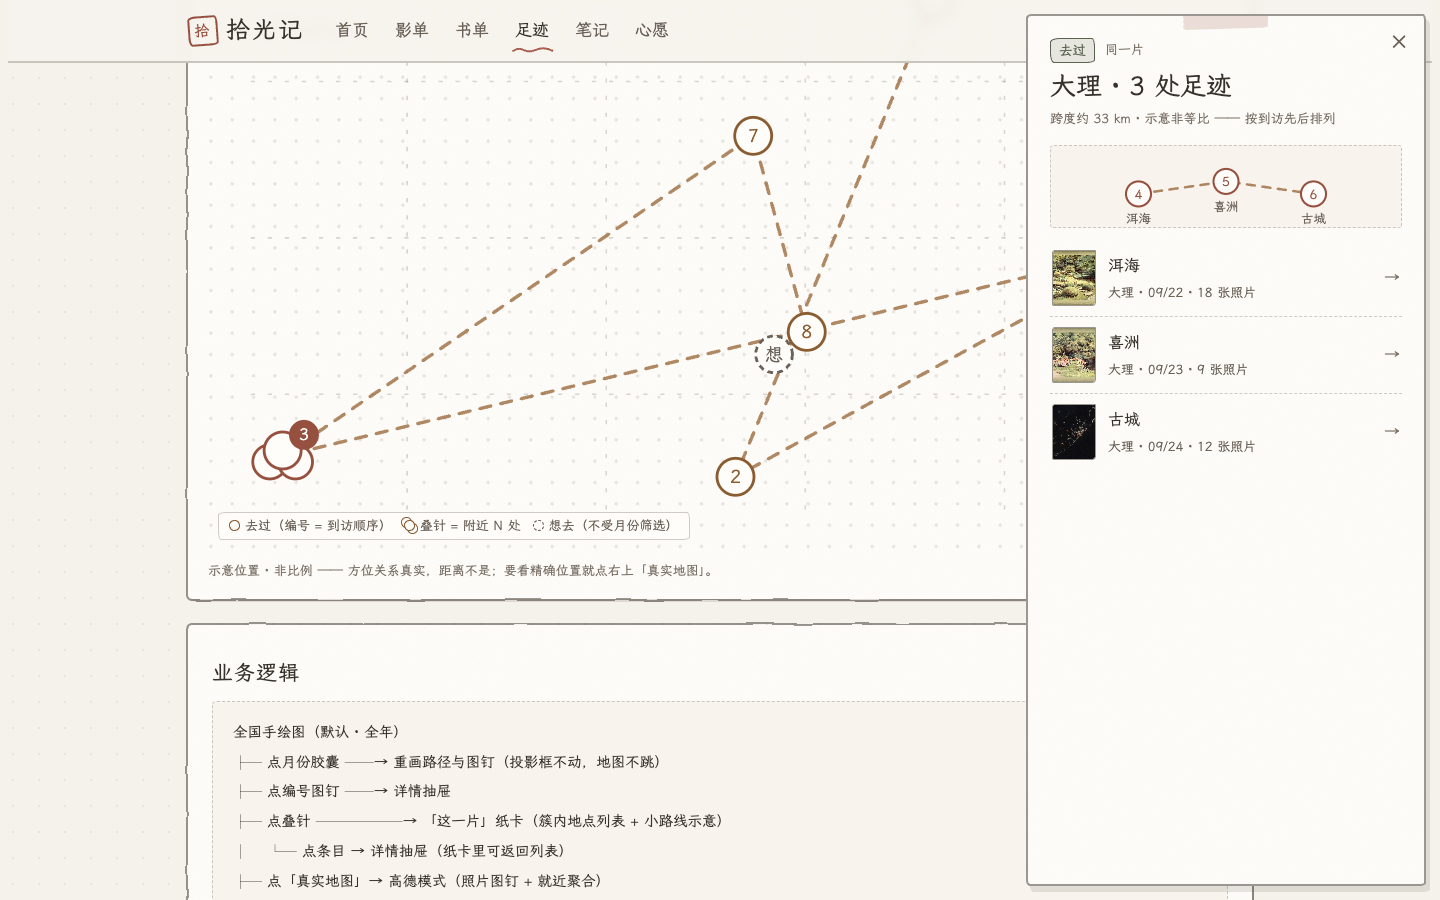
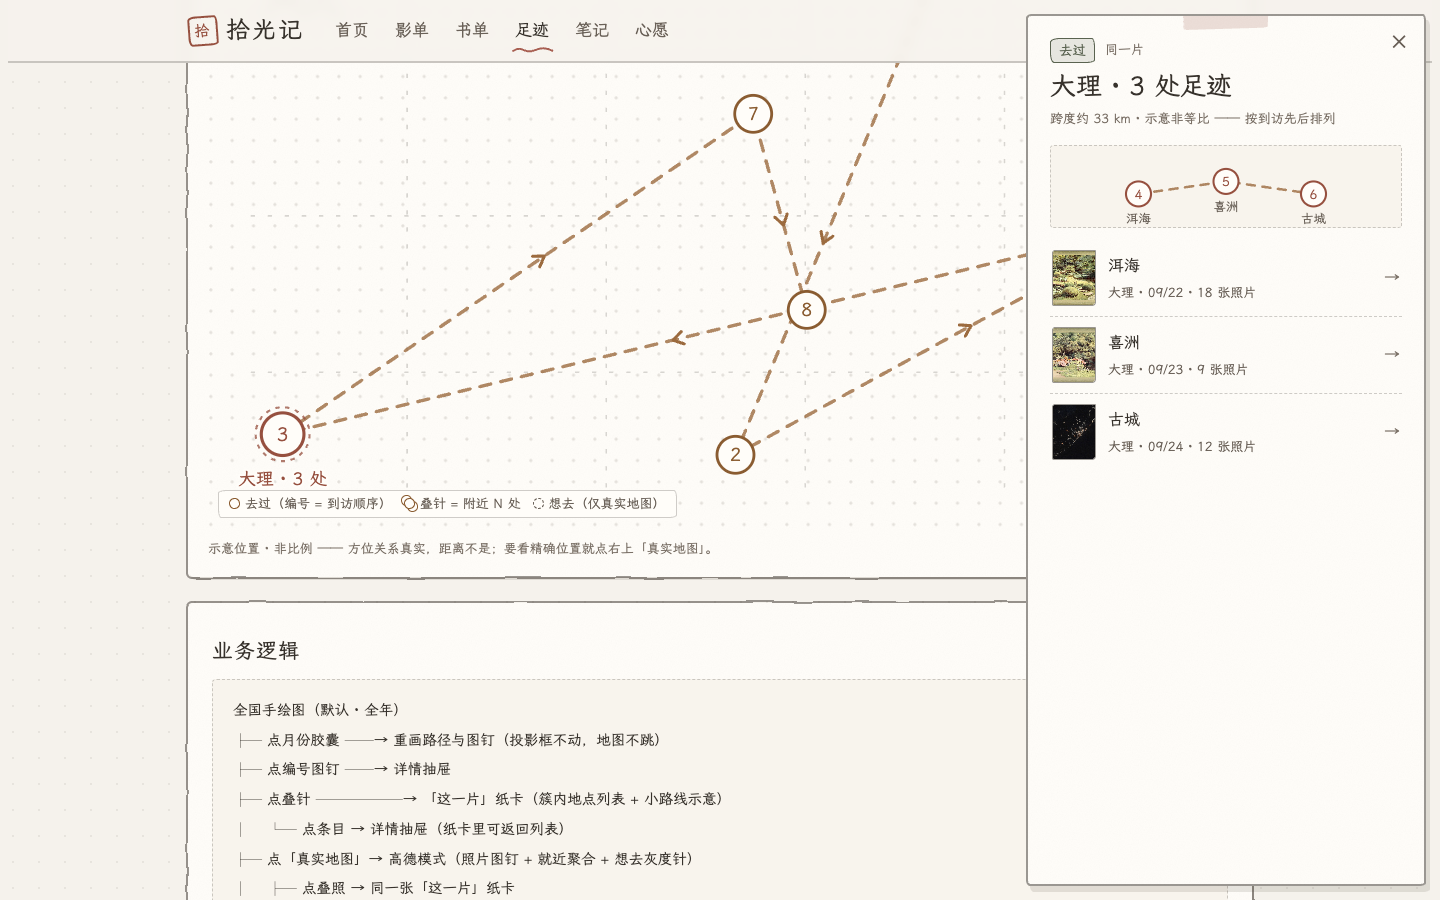
docs(handdrawn): 叠针形制重做 + 路径方向箭标 + 想去撤出手绘示意
- 叠针不再是三圆叠罗汉：单泡内数字 + 虚线外环 + 下方城市小签「大理 · 3 处」，
  与单点针拉开层级，信息也更足
- 路径每段 55% 处加 › 方向箭标（沿行进方向旋转），先后顺序一眼可读；
  真实地图模式的路线同样补箭标
- 想去地点撤出手绘示意（足迹图只画走过的路），仅保留在真实地图模式（灰度照片针），
  图例与规则同步

diff --git a/docs/design/mockups/handdrawn-0.0.6/travel-map.html b/docs/design/mockups/handdrawn-0.0.6/travel-map.html
@@ -36,11 +36,17 @@
 .page-mapdoc .map-pin:hover circle.bubble { stroke: var(--hd-red) }
 .page-mapdoc .map-pin:hover text { fill: var(--hd-red) }
 .page-mapdoc .cluster-pin { cursor: pointer }
-.page-mapdoc .cluster-pin circle { fill: var(--hd-paper); stroke: var(--hd-amber-ink); stroke-width: 2 }
-.page-mapdoc .cluster-pin .badge { fill: var(--hd-amber-ink) }
-.page-mapdoc .cluster-pin .badge-text { fill: var(--hd-paper); font-size: 11.5px; font-family: var(--hd-hand) }
-.page-mapdoc .cluster-pin:hover circle { stroke: var(--hd-red) }
-.page-mapdoc .cluster-pin:hover .badge { fill: var(--hd-red) }
+.page-mapdoc .cluster-pin circle.bubble { fill: var(--hd-paper); stroke: var(--hd-amber-ink); stroke-width: 2.2 }
+.page-mapdoc .cluster-pin .ring { fill: none; stroke: var(--hd-amber-ink); stroke-width: 1.5; stroke-dasharray: 3 4; opacity: .75 }
+.page-mapdoc .cluster-pin .cnt { fill: var(--hd-amber-ink); font-size: 13.5px; font-family: var(--hd-hand) }
+.page-mapdoc .cluster-pin .cap {
+  fill: var(--hd-ink-soft); font-size: 12.5px; font-family: var(--hd-hand);
+  paint-order: stroke; stroke: var(--hd-paper); stroke-width: 3.5px;
+}
+.page-mapdoc .cluster-pin:hover circle.bubble { stroke: var(--hd-red) }
+.page-mapdoc .cluster-pin:hover .ring { stroke: var(--hd-red) }
+.page-mapdoc .cluster-pin:hover .cnt, .page-mapdoc .cluster-pin:hover .cap { fill: var(--hd-red) }
+.page-mapdoc .map-arrow { stroke: var(--hd-ochre); stroke-width: 2.2; fill: none; stroke-linecap: round; stroke-linejoin: round }
 .page-mapdoc .map-legend {
   position: absolute; left: 10px; bottom: 10px; z-index: 3;
   display: flex; align-items: center; gap: 12px; padding: 2px 10px;
@@ -203,7 +209,7 @@
       <div class="map-legend">
         <span><i class="lg-dot"></i>去过（编号 = 到访顺序）</span>
         <span><i class="lg-dot cluster"></i>叠针 = 附近 N 处</span>
-        <span><i class="lg-dot wish"></i>想去（不受月份筛选）</span>
+        <span id="lgWish"><i class="lg-dot wish"></i>想去（仅真实地图）</span>
       </div>
     </div>
     <p class="map-note">示意位置 · 非比例 —— 方位关系真实，距离不是；要看精确位置就点右上「真实地图」。</p>
@@ -219,9 +225,10 @@
 ├─ 点编号图钉 ──→ 详情抽屉
 ├─ 点叠针 ──────→ 「这一片」纸卡（簇内地点列表 + 小路线示意）
 │    └─ 点条目 → 详情抽屉（纸卡里可返回列表）
-├─ 点「真实地图」→ 高德模式（照片图钉 + 就近聚合）
-│    └─ 点叠照 → 同一张「这一片」纸卡
-└─ 点想去图钉 ──→ 详情抽屉（想去态，可「定个日子」）</div>
+├─ 点「真实地图」→ 高德模式（照片图钉 + 就近聚合 + 想去灰度针）
+│    ├─ 点叠照 → 同一张「这一片」纸卡
+│    └─ 点想去照片 → 详情抽屉（想去态，可「定个日子」）
+└─ 手绘示意不画想去：足迹图只画走过的路</div>
 
     <table class="rule-table">
       <thead><tr><th style="width:120px">环节</th><th>规则</th></tr></thead>
@@ -231,8 +238,8 @@
         <tr><td class="k">防重叠 · 聚合</td><td>位移后仍 &lt;30px（同城多点）→ 合成<b>叠针</b>（三针叠放 + 数量角标），停在真实位置；不去伪造间隔。</td></tr>
         <tr><td class="k">叠针 → 纸卡</td><td>点叠针弹<b>「这一片」纸卡</b>：簇内地点按到访先后排列（照片 + 日期 + 张数），顶部一条编号小路线示意，标注跨度 km；点条目进详情抽屉，纸卡内可返回。同坐标多次到访在列表里天然可表达，无需特殊兜底。</td></tr>
         <tr><td class="k">月份口径</td><td>按 finishDate 归月；胶囊只列<b>有足迹的月份</b>并带数量（空月不出现）；默认「全年」；切换只重画路径与图钉。</td></tr>
-        <tr><td class="k">路径</td><td>选中范围内按日期升序串联成虚线路径；仅 1 个点不画线；<b>想去不进路径</b>。</td></tr>
-        <tr><td class="k">想去</td><td>虚线图钉常显，不受月份筛选影响；点开是想去态详情（可定日子）。</td></tr>
+        <tr><td class="k">路径</td><td>选中范围按日期升序串联成虚线路径，<b>每段中点带方向箭标</b>（先后顺序一眼可读）；仅 1 个点不画线；想去不进路径。</td></tr>
+        <tr><td class="k">想去</td><td><b>不上手绘示意</b>——足迹图只画走过的路，没去过的地方出现在上面反而别扭；真实地图模式仍以灰度照片针显示（那边本来就是「工具地图」），卡片区与详情照常管理想去。</td></tr>
         <tr><td class="k">空态</td><td>一个足迹都没有 → 手绘空态 +「＋ 添加想去」；坐标缺失的地点不上图，仍在卡片与时间线里。</td></tr>
         <tr><td class="k">真实地图</td><td>现有高德模式原样保留：照片图钉 + 就近聚合 + 路线 + 点选详情；与手绘图共用同一个装裱框，一次明确的模式切换，不做逐点击跳转。</td></tr>
         <tr><td class="k">性能</td><td>个人站量级（≤ 数百点），投影 / 松弛 / 聚合全在前端一次算完，无接口改动。</td></tr>
@@ -345,6 +352,16 @@ function el(name, attrs, parent) {
 }
 var handMap = document.getElementById('handMap');
 
+/* 路线方向：每段 55% 处一枚 › 箭标，沿行进方向旋转 */
+function routeArrows(pts, parent) {
+  for (var i = 0; i < pts.length - 1; i++) {
+    var x1 = pts[i][0], y1 = pts[i][1], x2 = pts[i + 1][0], y2 = pts[i + 1][1];
+    var mx = x1 + (x2 - x1) * .55, my = y1 + (y2 - y1) * .55;
+    var ang = Math.atan2(y2 - y1, x2 - x1) * 180 / Math.PI;
+    el('path', { class: 'map-arrow', d: 'M-4.5 -4.5 L2.5 0 L-4.5 4.5', transform: 'translate(' + mx + ' ' + my + ') rotate(' + ang + ')' }, parent);
+  }
+}
+
 function drawHand() {
   handMap.innerHTML = '';
   var defs = el('defs', {}, handMap);
@@ -362,22 +379,21 @@ function drawHand() {
   el('path', { class: 'deco wave', d: 'M640 400 q10 5 20 0 t20 0' }, base);
 
   var visited = filtered();
-  var wishes = PLACES.filter(function (p) { return p.wish; });
-  var res = decluster(visited);
-  var groups = res.groups;
+  var groups = decluster(visited).groups;
 
   /* 到访序号（全年口径，月份切换不重编） */
   var order = {};
   PLACES.filter(function (p) { return !p.wish; }).sort(function (a, b) { return (a.d || '').localeCompare(b.d || ''); })
     .forEach(function (p, i) { order[p.id] = i + 1; });
 
-  /* 路径：选中范围按日期串联，经过组心 */
+  /* 路径：选中范围按日期串联（经过组心），每段带方向箭标 */
   if (visited.length > 1) {
     var pts = visited.map(function (p) {
       var G = groups.find(function (G) { return G.items.includes(p); });
-      return G.cx + ',' + G.cy;
+      return [G.cx, G.cy];
     });
-    el('path', { class: 'map-route', d: 'M' + pts.join(' L') }, handMap);
+    el('path', { class: 'map-route', d: 'M' + pts.map(function (q) { return q[0] + ',' + q[1]; }).join(' L') }, handMap);
+    routeArrows(pts, handMap);
   }
 
   /* 图钉：单点组 = 编号针；多点组 = 叠针 */
@@ -391,25 +407,17 @@ function drawHand() {
       g.addEventListener('click', function (e) { e.stopPropagation(); renderPlace(p); });
     } else {
       var gc = el('g', { class: 'cluster-pin', transform: 'translate(' + G.cx + ',' + G.cy + ')' }, handMap);
-      el('circle', { cx: -9, cy: 4, r: 12 }, gc);
-      el('circle', { cx: 9, cy: 4, r: 12 }, gc);
-      el('circle', { cx: 0, cy: -4, r: 13 }, gc);
-      el('circle', { class: 'badge', cx: 15, cy: -15, r: 9.5 }, gc);
-      var bt = el('text', { class: 'badge-text', x: 15, y: -11.5, 'text-anchor': 'middle' }, gc);
+      el('circle', { class: 'ring', r: 19 }, gc);
+      el('circle', { class: 'bubble', r: 15 }, gc);
+      var bt = el('text', { class: 'cnt', y: 5, 'text-anchor': 'middle' }, gc);
       bt.textContent = G.items.length;
+      var cap = el('text', { class: 'cap', y: 36, 'text-anchor': 'middle' }, gc);
+      cap.textContent = (G.items[0].city || '') + ' · ' + G.items.length + ' 处';
       gc.addEventListener('click', function (e) { e.stopPropagation(); openCluster(G); });
       G.node = gc;
     }
   });
 
-  /* 想去：虚线针，常显 */
-  wishes.forEach(function (p) {
-    var g = el('g', { class: 'map-pin wish', transform: 'translate(' + p.x + ',' + p.y + ')' }, handMap);
-    el('circle', { class: 'bubble', r: 13 }, g);
-    var t = el('text', { y: 4.5, 'text-anchor': 'middle' }, g);
-    t.textContent = '想';
-    g.addEventListener('click', function (e) { e.stopPropagation(); renderPlace(p); });
-  });
 }
 
 /* 「这一片」纸卡：点叠针弹出簇内地点列表 + 小路线示意，地图一个像素不动；
@@ -538,9 +546,10 @@ function drawReal() {
   if (visited.length > 1) {
     var pts = visited.map(function (p) {
       var G = groups.find(function (G) { return G.items.includes(p); });
-      return G.cx + ',' + G.cy;
+      return [G.cx, G.cy];
     });
-    el('path', { class: 'map-route', d: 'M' + pts.join(' L'), 'stroke-width': 3 }, svg);
+    el('path', { class: 'map-route', d: 'M' + pts.map(function (q) { return q[0] + ',' + q[1]; }).join(' L'), 'stroke-width': 3 }, svg);
+    routeArrows(pts, svg);
   }
   groups.forEach(function (G) {
     var d = document.createElement('div');
@@ -595,7 +604,9 @@ function setMode() {
   modeReal.classList.toggle('on', state.mode === 'real');
   handMap.hidden = state.mode !== 'hand';
   realMap.hidden = state.mode !== 'real';
-  document.querySelector('.map-legend').style.display = state.mode === 'hand' ? '' : 'none';
+  var lg = document.querySelector('.map-legend');
+  lg.style.display = '';
+  document.getElementById('lgWish').style.display = state.mode === 'hand' ? 'none' : '';
   render();
 }
 function render() { if (state.mode === 'hand') drawHand(); else drawReal(); }
